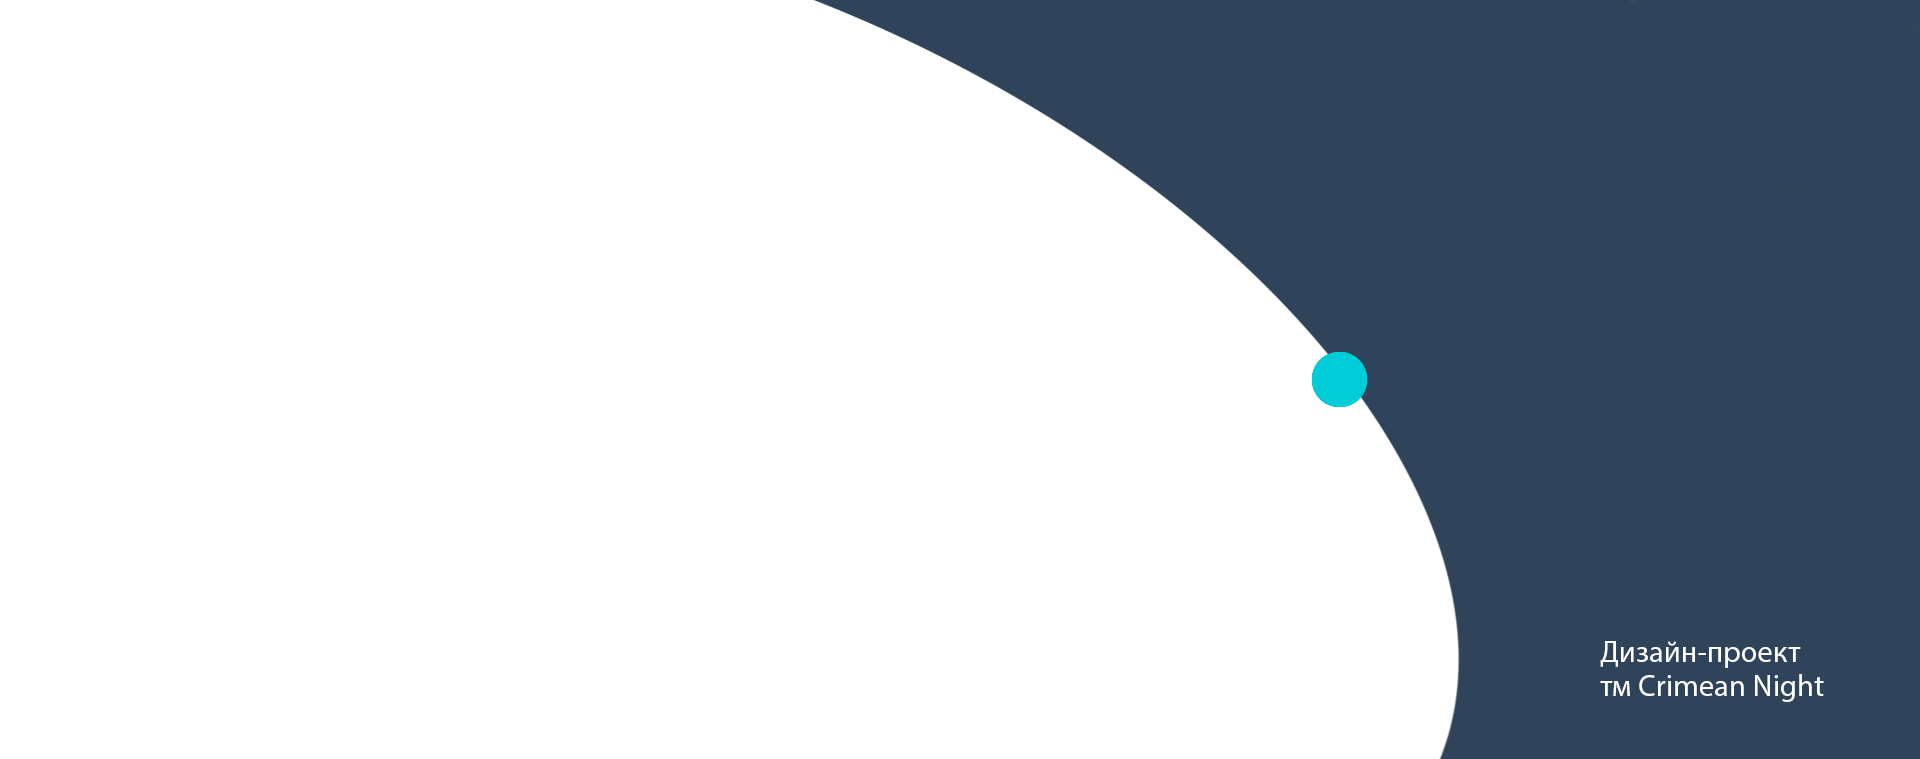
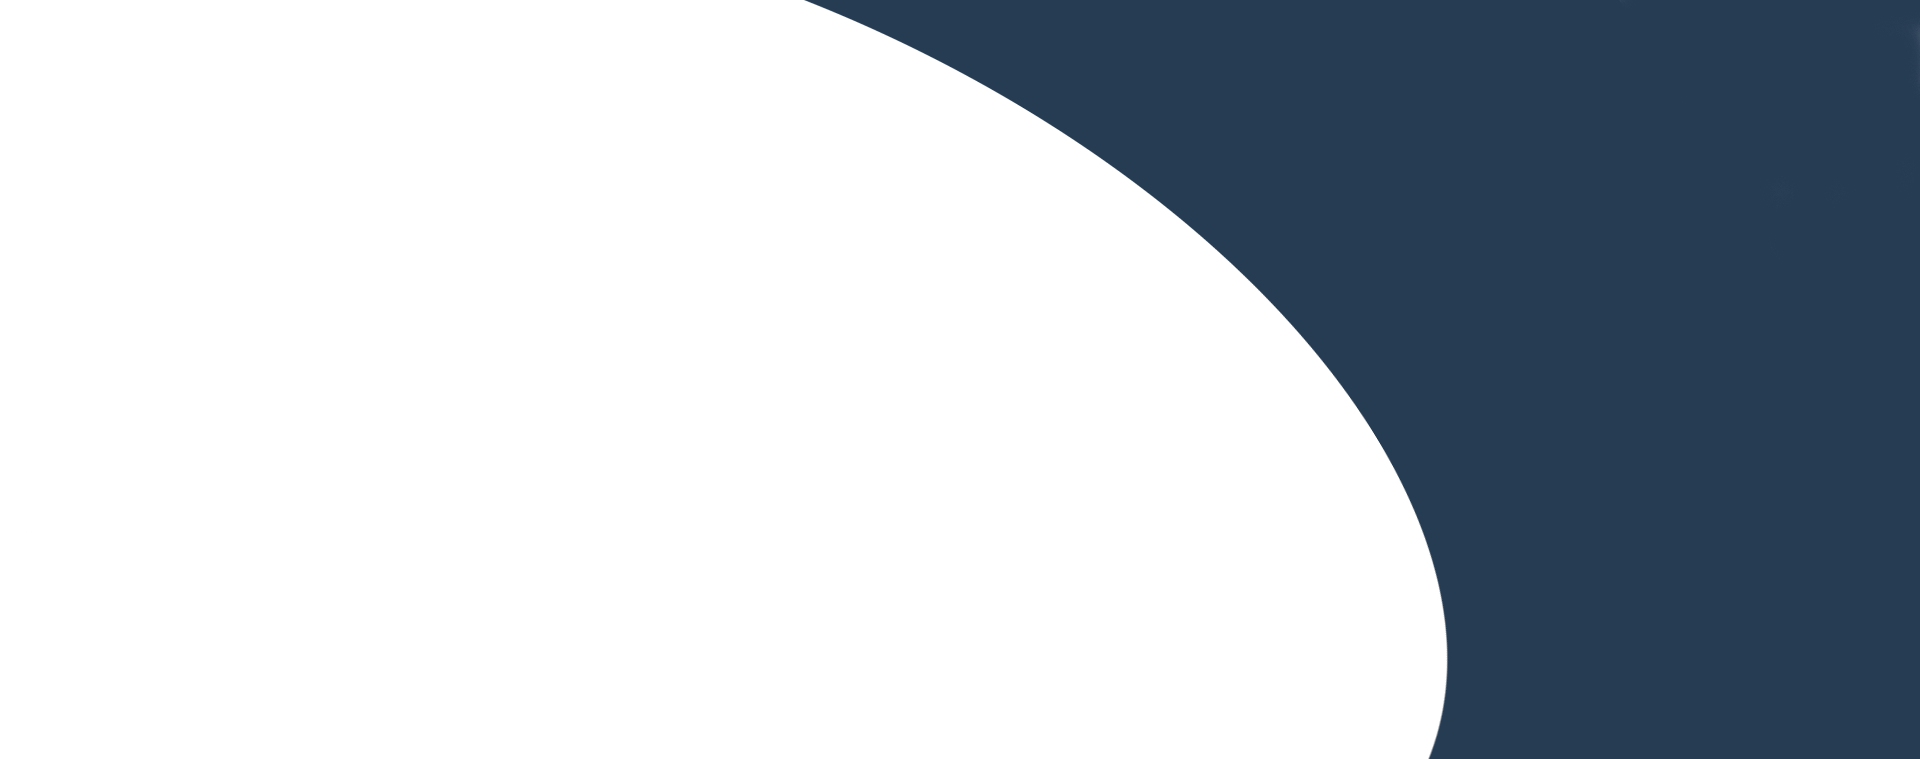
17:38 01.09.2022

diff --git a/mozhemo-vue/src/components/Main/mCompetence.vue b/mozhemo-vue/src/components/Main/mCompetence.vue
@@ -2,8 +2,8 @@
      <div class="container-fluid competence">
             <div class="row">
                 <div class="col-lg-6 col-md-12">
-                    <h1 class="сomp-head">{{$t('competence.competence-head')}}</h1>
-                    <p class="comp-text w-50">{{$t('competence.competence-text')}}</p>
+                    <h1 class="сomp-head">{{$t('competence.head')}}</h1>
+                    <p class="comp-text w-50">{{$t('competence.text')}}</p>
                 </div>
                 <div class="col-lg-5 col-md-12 col-sm-12">
                     <div class="comp-list">
@@ -18,38 +18,38 @@
                             </div>
                             <div class="row comp-row">
                                 <div class="col-5">
-                                    <p class="comp-text-bl">Розробка стратегії бренду</p>
+                                    <p class="comp-text-bl">{{$t('competence.grid.brand-strategy-dev')}}</p>
                                 </div>
                                 <div class="col-2"></div>
                                 <div class="col-5">
-                                    <p class="comp-text-wh">Privat lable</p>
+                                    <p class="comp-text-wh">{{$t('competence.grid.private-lable')}}</p>
                                 </div>
                             </div>
                             <div class="row comp-row">
                                 <div class="col-5">
-                                    <p class="comp-text-bl">Розробка назви та копірайт</p>
+                                    <p class="comp-text-bl">{{$t('competence.grid.title-dev')}}</p>
                                 </div>
                                 <div class="col-2"></div>
                                 <div class="col-5">
-                                    <p class="comp-text-wh">Brandbook</p>
+                                    <p class="comp-text-wh">{{$t('competence.grid.brandbook')}}</p>
                                 </div>
                             </div>
                             <div class="row comp-row">
                                 <div class="col-5">
-                                    <p class="comp-text-bl">Розробка фірмового стилю</p>
+                                    <p class="comp-text-bl">{{$t('competence.grid.corp-style-dev')}}</p>
                                 </div>
                                 <div class="col-2"></div>
                                 <div class="col-5">
-                                    <p class="comp-text-wh">Дизайн упаковки</p>
+                                    <p class="comp-text-wh">{{$t('competence.grid.pack-design')}}</p>
                                 </div>
                             </div>
                             <div class="row comp-row">
                                 <div class="col-5">
-                                    <p class="comp-text-bl">Стратегія просування бренду</p>
+                                    <p class="comp-text-bl">{{$t('competence.grid.promotion-strategy')}}</p>
                                 </div>
                                 <div class="col-2"></div>
                                 <div class="col-5">
-                                    <p class="comp-text-wh">Дизайн інтерфейсів та WEB</p>
+                                    <p class="comp-text-wh">{{$t('competence.grid.web-interface-design')}}</p>
                                 </div>
                             </div>
 

diff --git a/mozhemo-vue/src/components/mMain.vue b/mozhemo-vue/src/components/mMain.vue
@@ -1,6 +1,8 @@
 <template>
 <div class="banner">
-<img src="@/assets/banner-overlay.png" alt="">
+            <div class="banner-overlay"></div>
+            <p class="overlay-text">{{ $t('banner.banner-text')}}</p>
+            <p class="overlay-text-second"><sup>тм</sup> Crimean Night</p>
 </div>
         <mOffer2 />
         <mOffer3 />
@@ -34,11 +36,38 @@ export default{
     max-width: 100%;
     height: 759px;
     background-image:url("@/assets/banner.png");
-    place-items: center;
+    position: relative;
+}
+.banner-overlay{
+    max-width: 100%;
+    height: 759px;
+    background-image: url("@/assets/banner-overlay-test.png");
+    opacity: 95%;
     position: relative;
     background-repeat: no-repeat;
-    background-size:cover;
+    background-position: center;
+    background-clip: padding-box;
+    left: 22%;
 }
+.overlay-text{
+    position: absolute;
+    top: 80%;
+    left: 80%;
+    max-width: 50%;
+    color: #fff;
+    text-align: left;
+    font-size: 2em;
+}
+.overlay-text-second{
+    position: absolute;
+    top: 85%;
+    left: 80%;
+    max-width: 50%;
+    color: #fff;
+    text-align: left;
+    font-size: 2em;
+}
+
 .img-fluid{
     max-width: 100%;
     height: auto;

diff --git a/mozhemo-vue/src/components/mFooter.vue b/mozhemo-vue/src/components/mFooter.vue
@@ -9,7 +9,7 @@
                             <h6 class="footer-text2">+380 67 999 18 87</h6>
                         </div>
                         <div class="col-xl-4 col-md-12 align-self-center">
-                            <h6 class="footer-text3">9:00 - 19:00  Пн-Пт</h6>
+                            <h6 class="footer-text3">9:00 - 19:00  {{$t('footer')}}</h6>
                         </div>
                         <div class="col-xl-4 col-md-12 align-self-end">
                             <h6 class="footer-text2"><a class="footer-link" href="mailto:info@mozhem.com.ua">info@mozhem.com.ua</a></h6>
